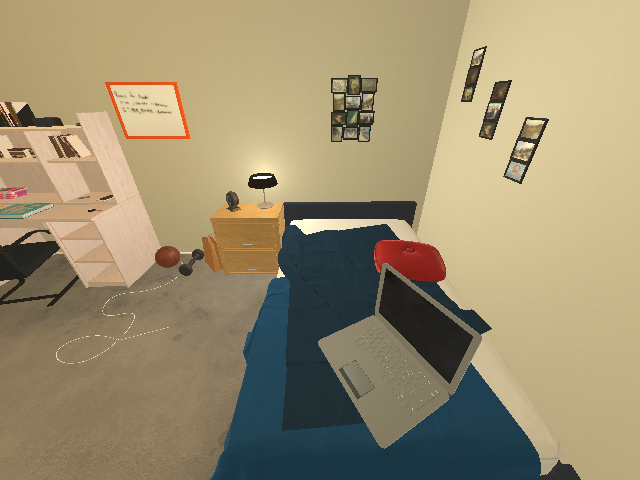
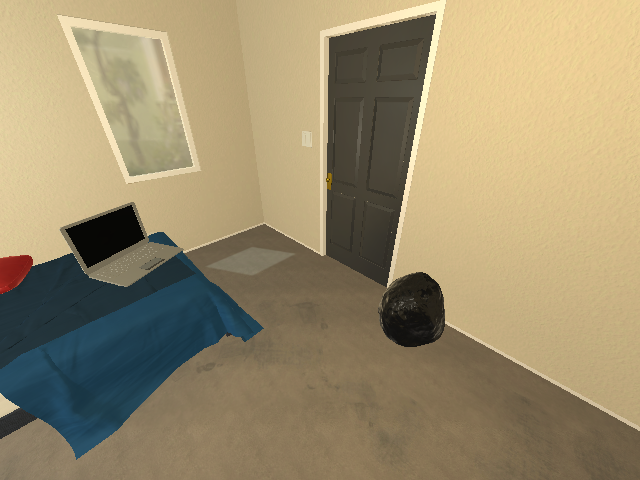
feat: capture all simple task images, update task descriptions

diff --git a/ai2thor_sim/a.py b/ai2thor_sim/a.py
@@ -152,6 +152,8 @@ def interactive_capture(scene, agent_count, out_dir, prefix, robot_labels, width
             Image.fromarray(agent_event.frame).save(path)
             print(f"saved: {path}")
 
+        elif key == "m":
+            teleport_to_can(controller, current_agent)
         elif key == "x":
             break
         elif key == "\x03":
@@ -167,3 +169,39 @@ if __name__ == "__main__":
         prefix="task5_abstract_bedroom",
         robot_labels=["R3"],
     )
+
+def teleport_to_can(controller, current_agent):
+    """가까운 오브젝트를 가장 가까운 GarbageCan 안으로 이동"""
+    event = controller.last_event
+    agent_pos = event.events[current_agent].metadata["agent"]["position"]
+
+    # GarbageCan 찾기
+    cans = [o for o in event.metadata["objects"] if "GarbageCan" in o["objectId"]]
+    if not cans:
+        print("GarbageCan을 찾을 수 없습니다")
+        return
+
+    def dist(o):
+        p = o["position"]
+        return (p["x"] - agent_pos["x"])**2 + (p["z"] - agent_pos["z"])**2
+
+    nearest_can = min(cans, key=dist)
+    can_pos = nearest_can["position"]
+
+    # 가장 가까운 pickupable 오브젝트 찾기
+    pickupable = [o for o in event.metadata["objects"] if o.get("pickupable") and o.get("visible")]
+    if not pickupable:
+        print("집을 수 있는 오브젝트가 없습니다")
+        return
+
+    target = min(pickupable, key=dist)
+    new_pos = {"x": can_pos["x"], "y": can_pos["y"] + 0.1, "z": can_pos["z"]}
+
+    r = controller.step(
+        action="TeleportObject",
+        rotation={"x": 0, "y": 0, "z": 0},
+        objectId=target["objectId"],
+        position=new_pos,
+        forceAction=True
+    )
+    print(f"이동: {target['objectId']} → GarbageCan ({new_pos}) -> 성공={r.metadata['lastActionSuccess']}")

diff --git a/scripts/run_capture.py b/scripts/run_capture.py
@@ -23,7 +23,7 @@ with open(os.path.join(EXP, 'task', 'task.json'), encoding='utf-8') as f:
     task_data = {t['task_n']: t for t in json.load(f)['tasks']}
 
 task = task_data[args.task]
-task_num = args.task.replace('_abstract', '').replace('task', '')
+task_num = args.task.replace('_abstract', '').replace('_simple', '').replace('task', '')
 task_type = args.task.split('_')[1]
 n_str = str(args.n_robots)
 robot_list = task['configs'][n_str]
